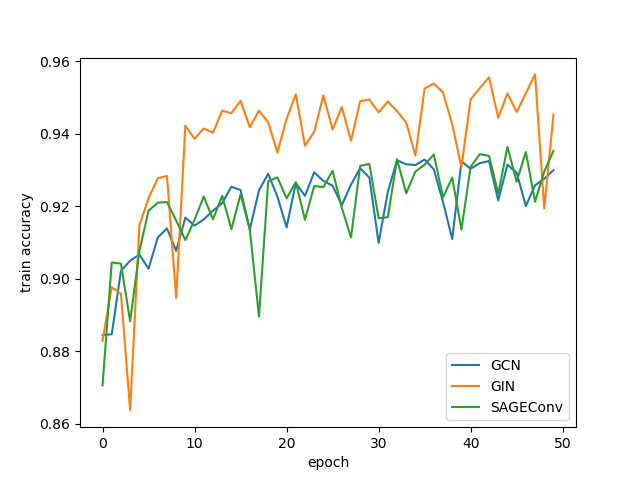
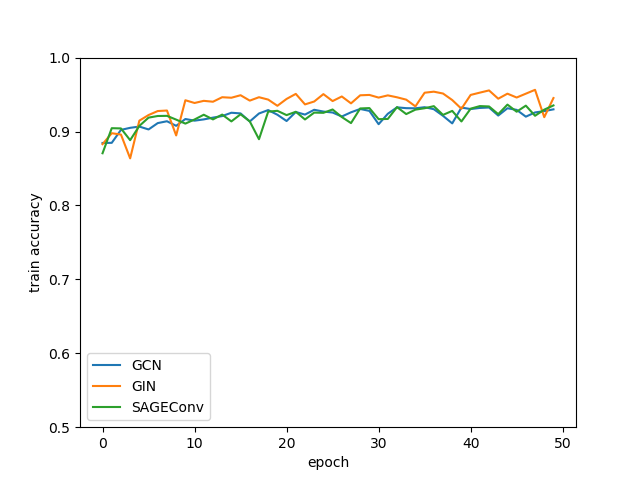
update plots

diff --git a/model/BaseModel.py b/model/BaseModel.py
@@ -52,8 +52,8 @@ class AidsModel(torch.nn.Module):
         self.conv1 = GCNConv(in_channels, 128)
         self.conv2 = GCNConv(128, 64)
         # self.pool2 = SAGPooling(64, min_score=1e-3, GNN=GCNConv)
-        self.lin1 = nn.Linear(64, 16)
-        self.lin2 = nn.Linear(16, 1)
+        self.lin1 = nn.Linear(64, 1)
+        # self.lin2 = nn.Linear(16, 1)
         self.sig = nn.Sigmoid()
 
     def forward(self, data):
@@ -64,6 +64,6 @@ class AidsModel(torch.nn.Module):
         x = F.relu(self.conv2(x.float(), edge_index))
         # x, edge_index, _, batch, _, _ = self.pool2(x, edge_index, None, batch)
         x = F.relu(self.lin1(x))
-        x = F.relu(self.lin2(x))
+        # x = F.relu(self.lin2(x))
         x = self.sig(x)
         return x

diff --git a/plot.py b/plot.py
@@ -2,7 +2,7 @@ import numpy as np
 import matplotlib.pyplot as plt
 
 
-files = ['GCN', 'GIN', 'SAGEConv']
+files = ['GCN1', 'GCN2', 'GIN', 'SAGEConv']
 
 epochs = 50
 plt.figure(0)
@@ -54,9 +54,14 @@ for f_ in files:
 plt.figure(0)
 plt.legend()
 plt.figure(1)
+plt.ylim(0.5, 1)
 plt.legend()
 plt.figure(2)
+plt.ylim(0.5, 1)
+
 plt.legend()
 plt.figure(3)
+plt.ylim(0.5, 1)
+
 plt.legend()
 plt.show()
